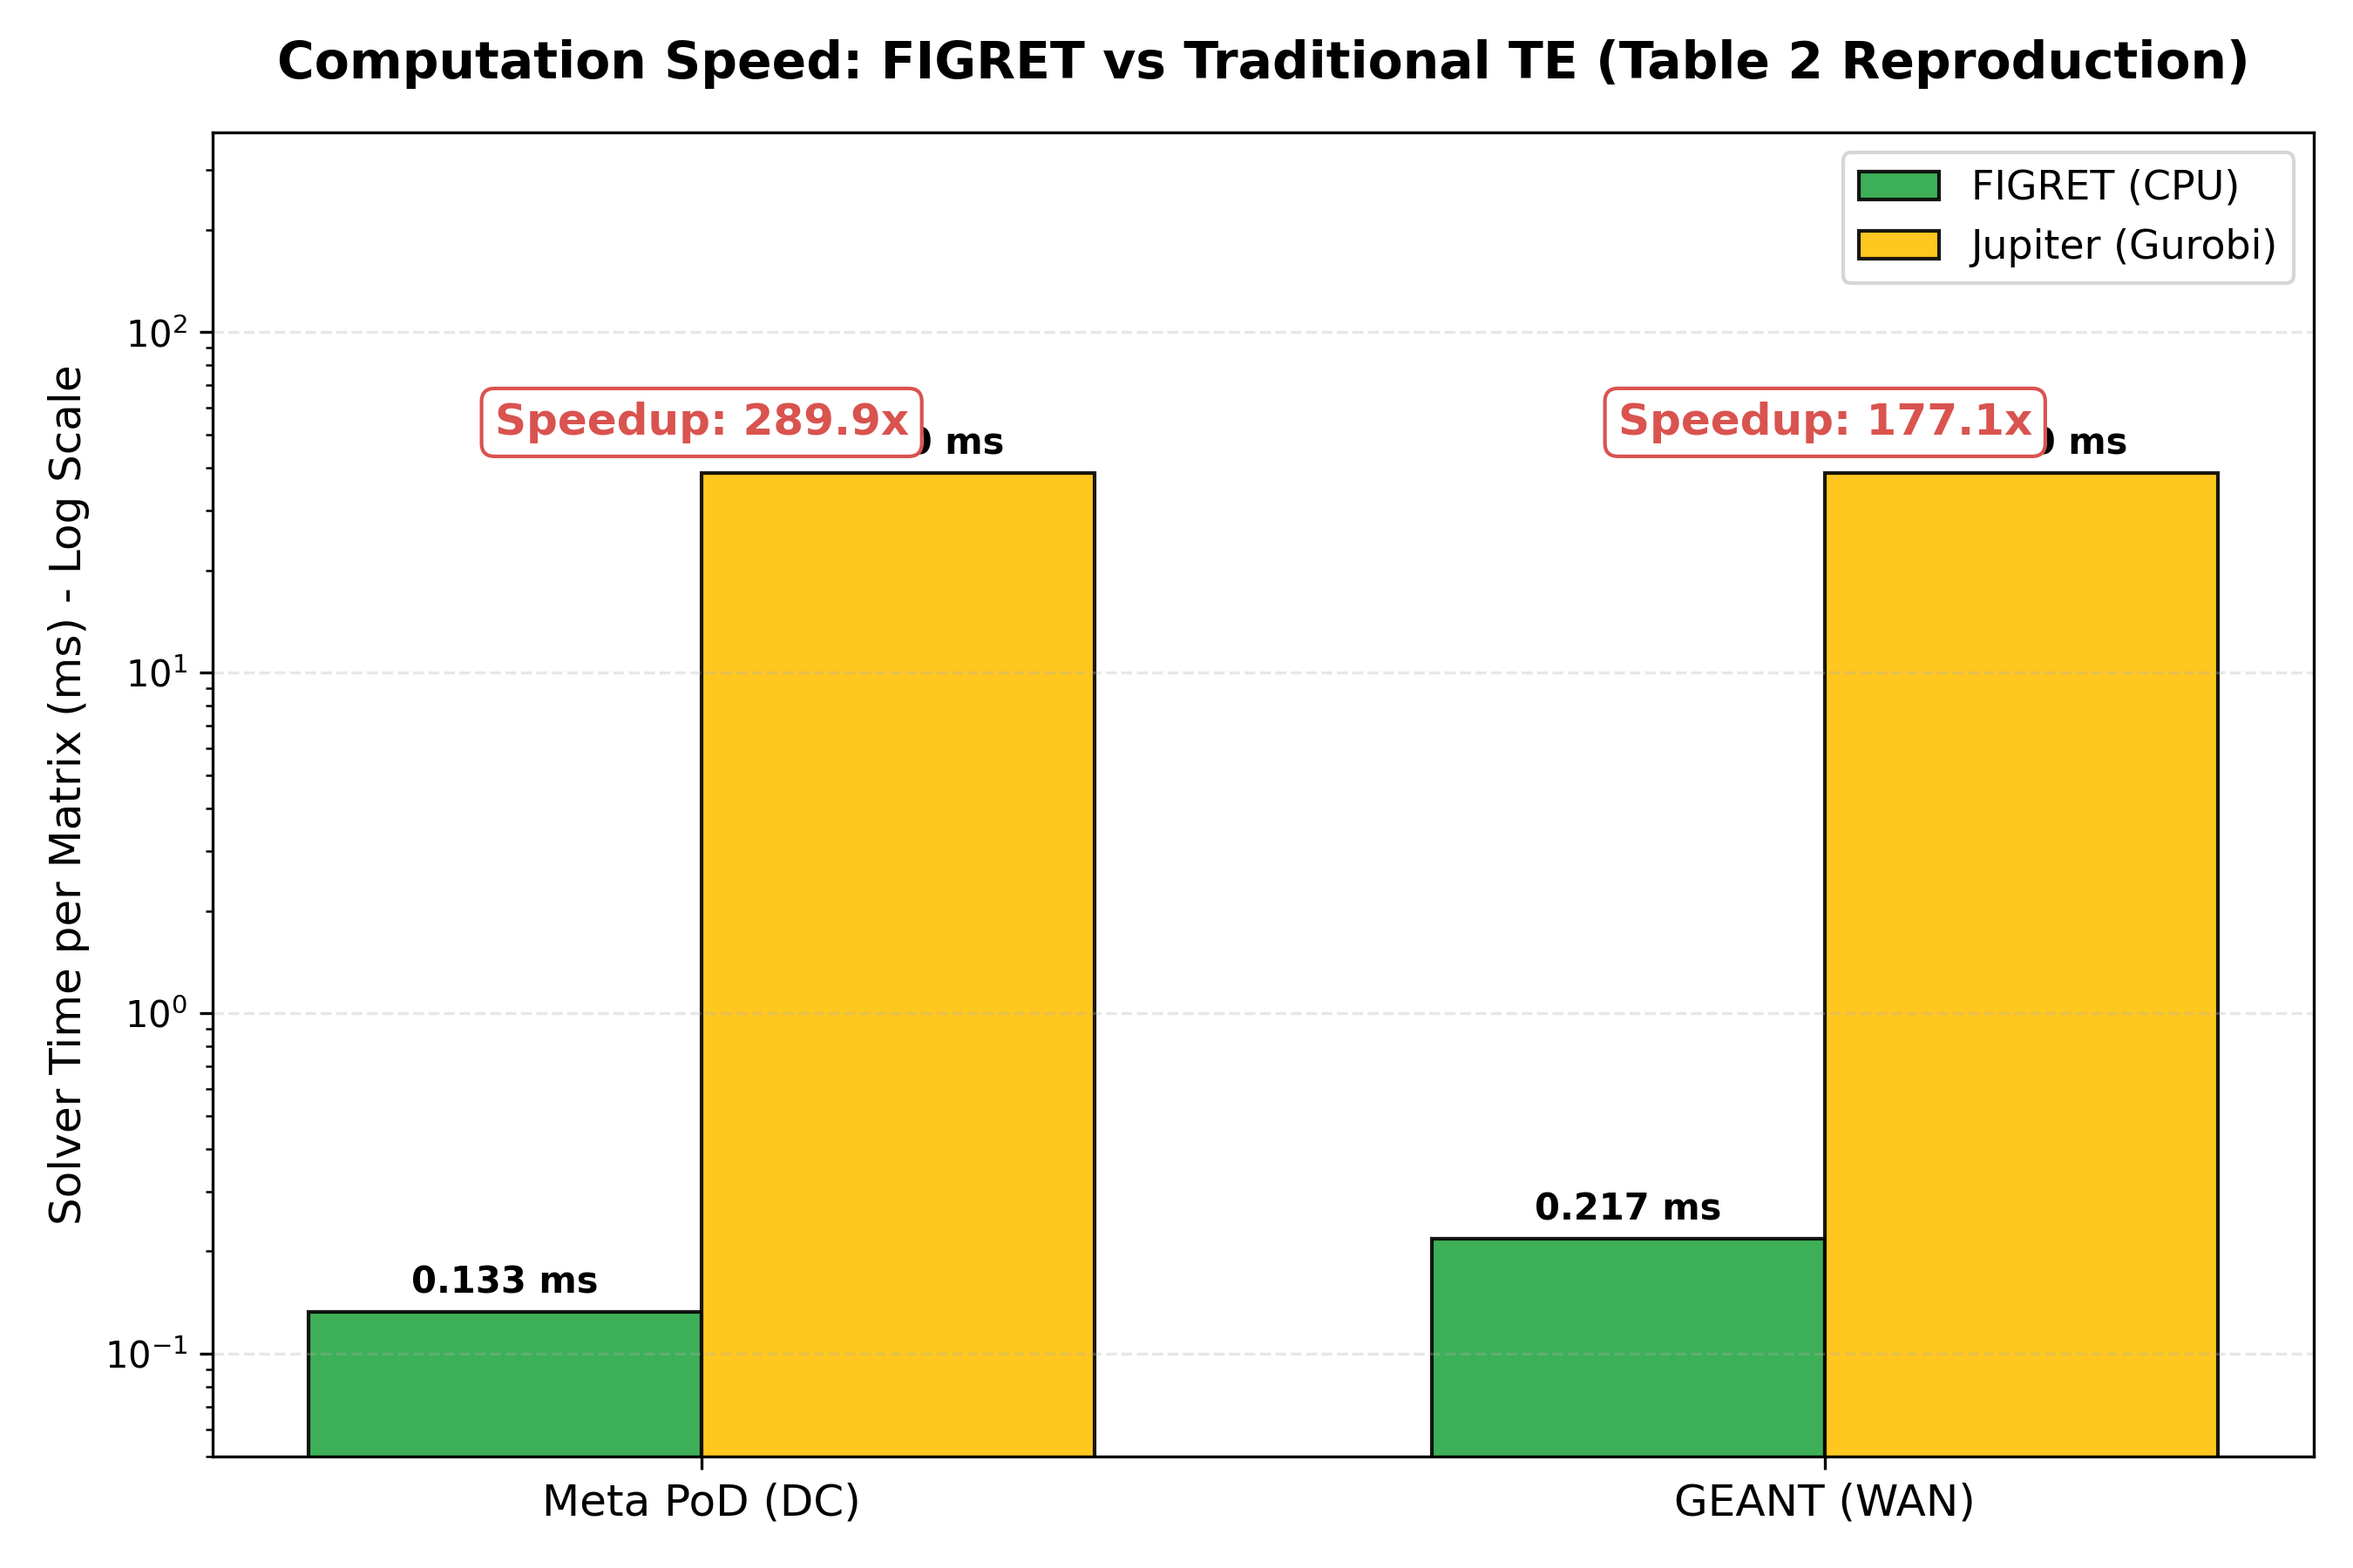
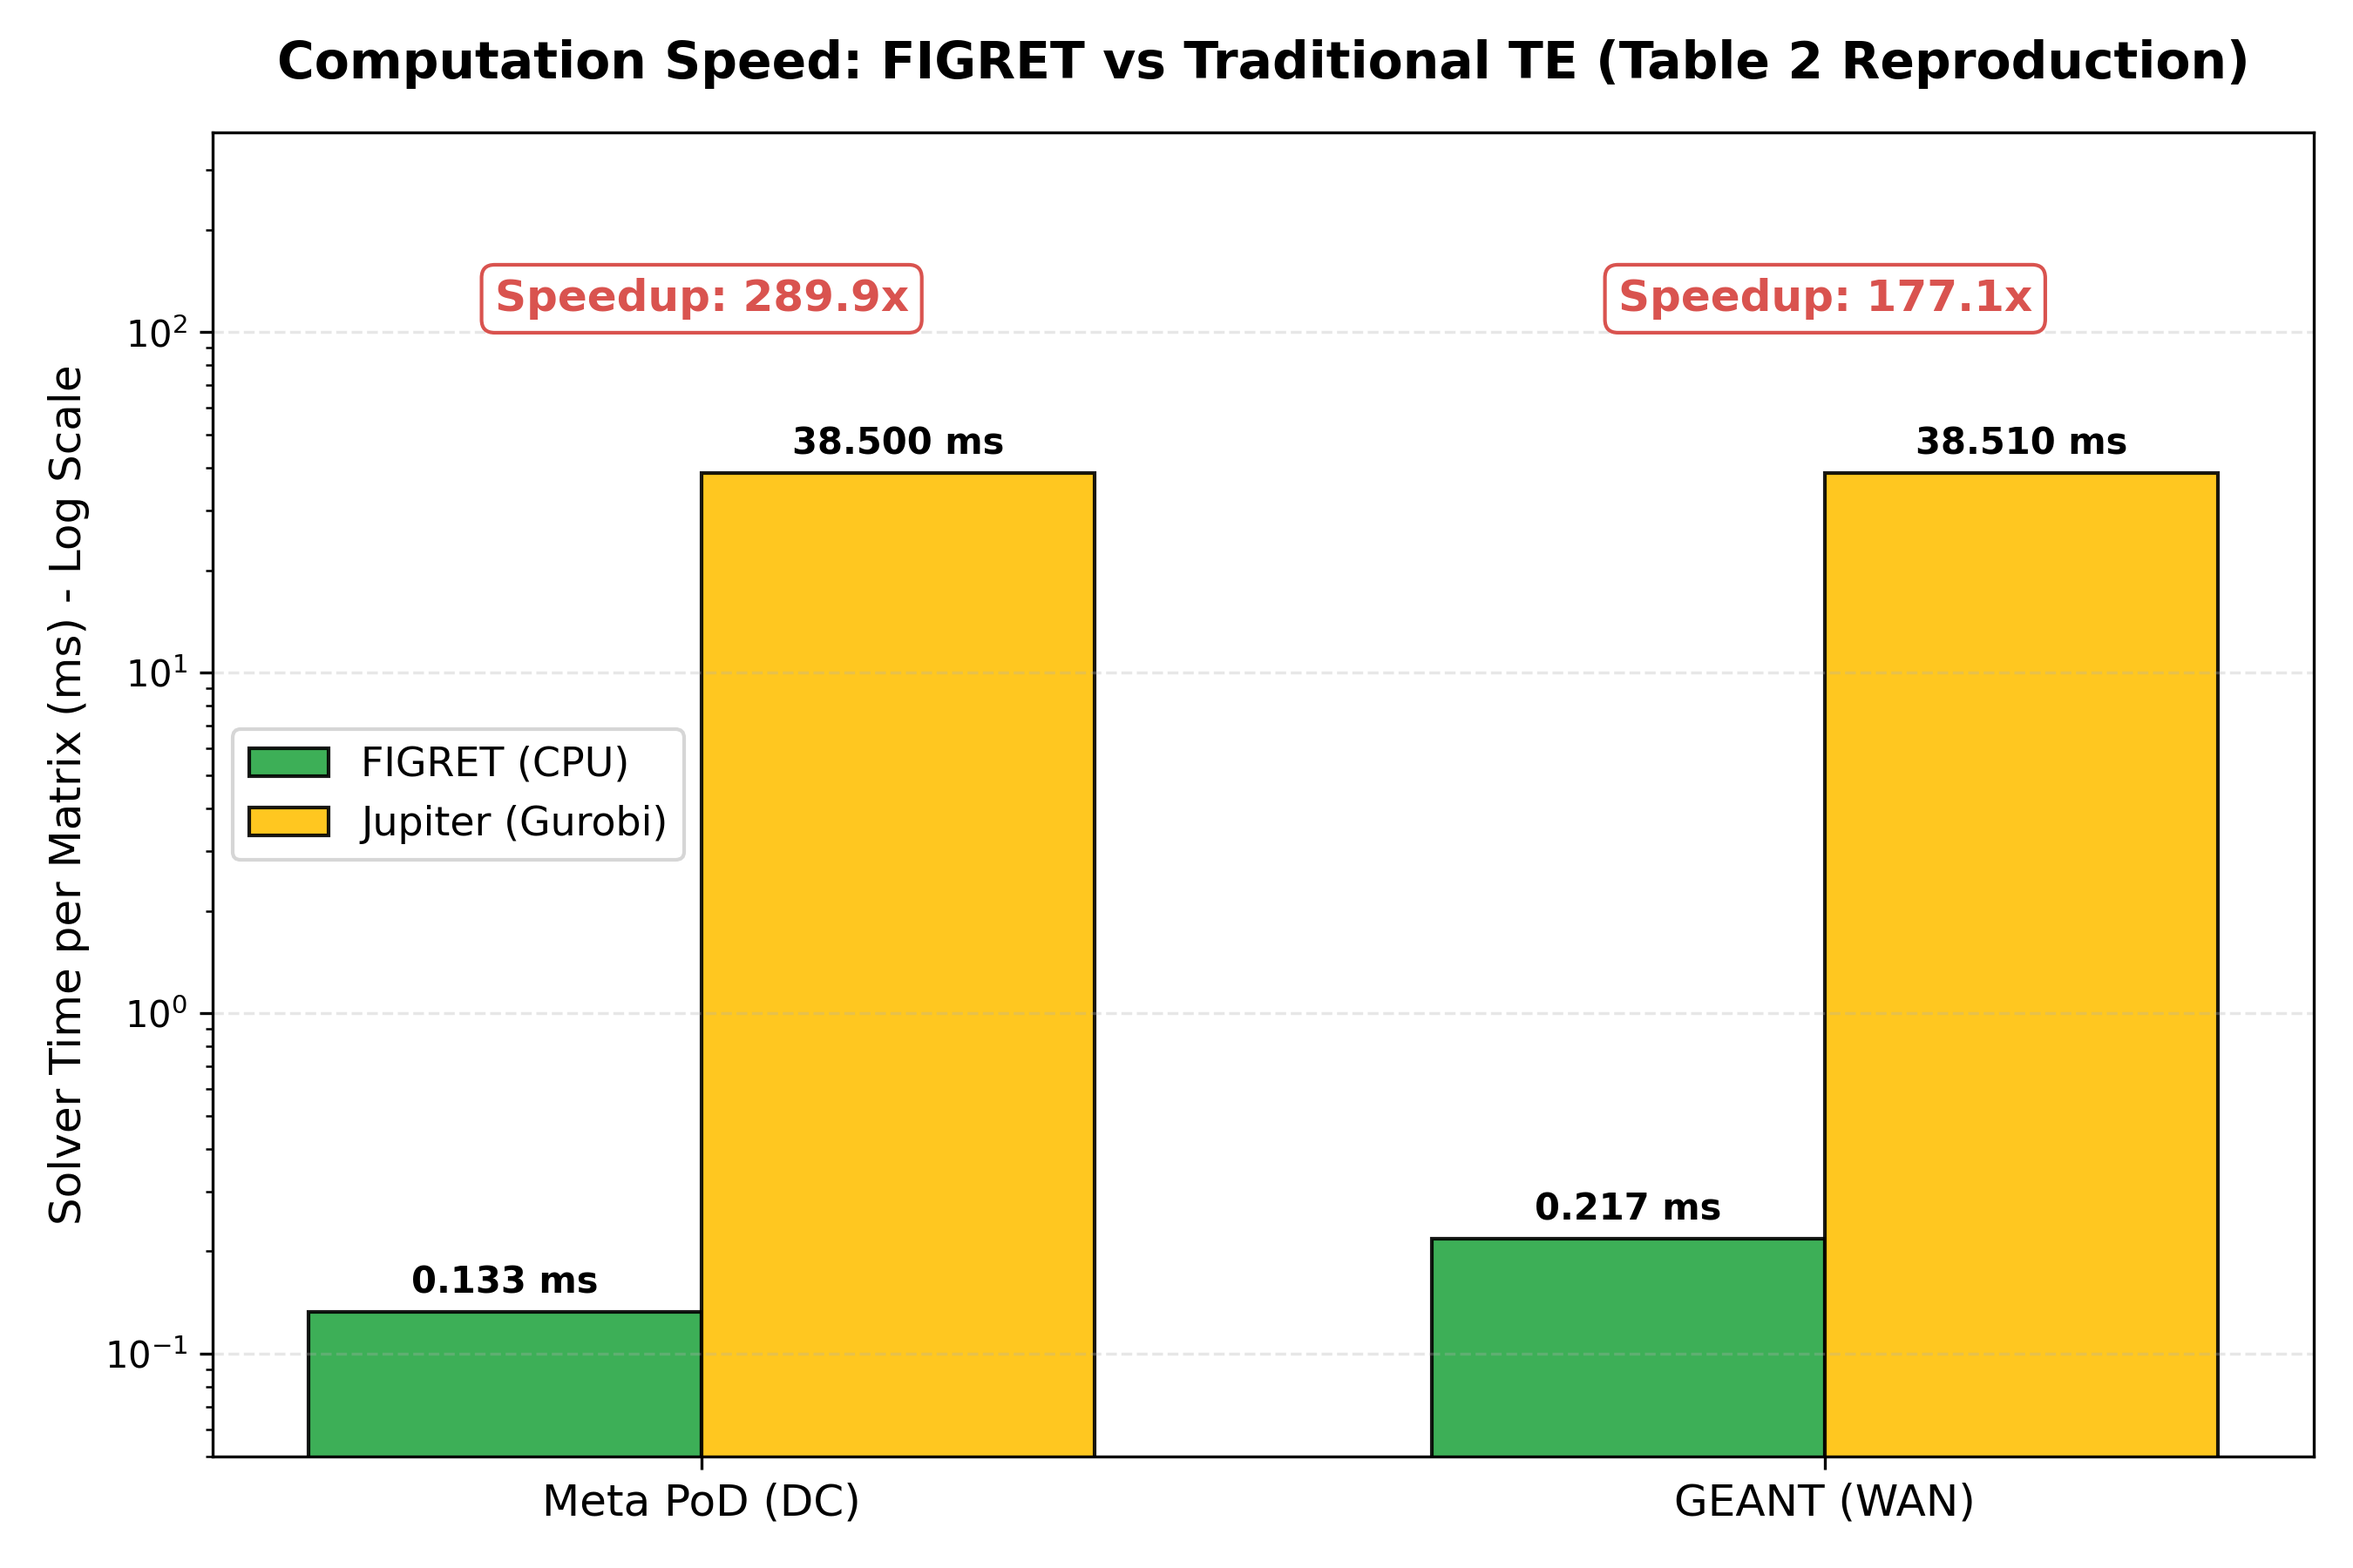
update 20251201

diff --git a/plot_speed_final.py b/plot_speed_final.py
@@ -50,7 +50,7 @@ def plot_speed_comparison():
     # 在图上标注加速倍数 (用红色箭头或文字)
     # 因为是对数坐标，位置需要稍微调整
     def annotate_speedup(idx, j_time, speedup):
-        ax.text(idx, j_time * 1.3, f"Speedup: {speedup:.1f}x",
+        ax.text(idx, j_time * 3, f"Speedup: {speedup:.1f}x",
                 ha='center', color='#d9534f', fontweight='bold', fontsize=12,
                 bbox=dict(facecolor='white', edgecolor='#d9534f', boxstyle='round,pad=0.3'))
 
